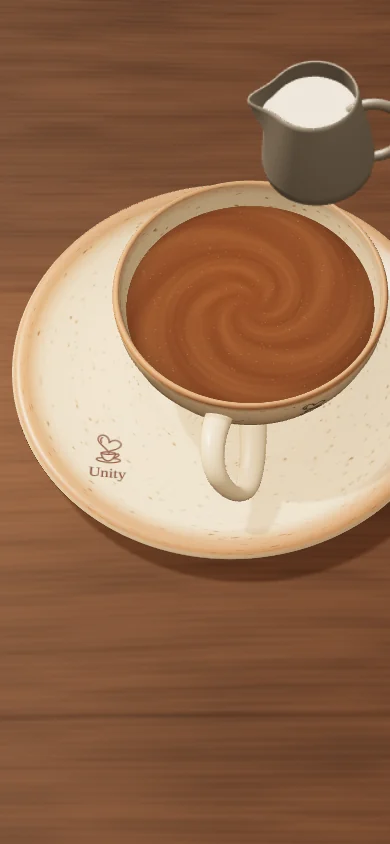
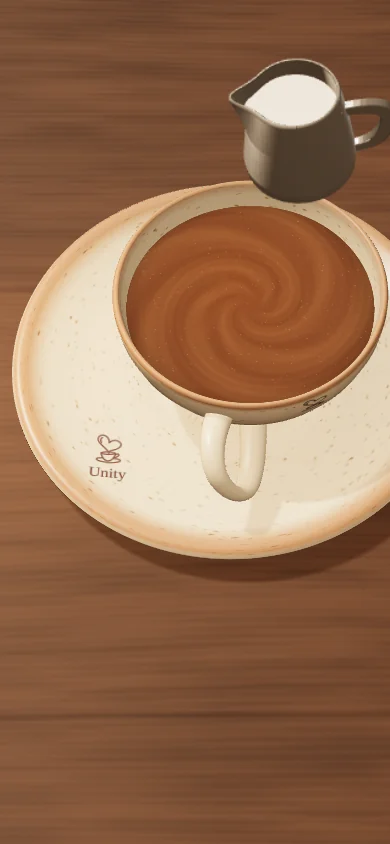
Shape a brushed steel pitcher and keep its handle in view

Changed region(s): [[0.5846, 0.0616, 1.0, 0.2464], [0.7692, 0.4621, 0.8308, 0.4929]]

diff --git a/public/latte-art/cup-scene.js b/public/latte-art/cup-scene.js
@@ -270,7 +270,7 @@ export function createCupScene(mainCanvas, fallbackCanvas, inkCanvas, stillCanva
   pourScene.add(stream);
   const streamStart = new THREE.Vector3();
   const streamEnd = new THREE.Vector3();
-  const idlePitcher = new THREE.Vector3(.73, 1.52, -1.49);
+  const idlePitcher = new THREE.Vector3(.54, 1.52, -1.52);
   let pourView = { position: { x: 0, y: 0 }, flow: 0, resting: 1, amount: 0 };
   const camera = new THREE.PerspectiveCamera(28, 1, .1, 80);
   const target = new THREE.Vector3();
@@ -594,7 +594,10 @@ export function createCupScene(mainCanvas, fallbackCanvas, inkCanvas, stillCanva
 function buildPitcher(scene) {
   const pivot = new THREE.Group();
   pivot.position.set(1.9, 1.43, -.5);
-  const steel = new THREE.MeshStandardMaterial({ color: '#bdb9b0', metalness: .58, roughness: .29 });
+  const steel = new THREE.MeshPhysicalMaterial({
+    color: '#c9c2b7', metalness: .84, roughness: .26,
+    anisotropy: .49, anisotropyRotation: Math.PI / 2, envMapIntensity: 1.46,
+  });
   const pitcher = lathe([
     [0, 0], [.51, 0], [.58, .07], [.60, .22], [.54, .72], [.47, 1.13],
     [.45, 1.18], [.43, 1.16], [.47, .65], [.52, .2], [0, .10],
@@ -603,9 +606,20 @@ function buildPitcher(scene) {
   shapePitcherSpout(pitcher.geometry);
   pivot.add(pitcher);
   const pitcherMilk = createPitcherLiquid();
-  const handle = new THREE.Mesh(new THREE.TorusGeometry(.35, .052, 10, 30), steel);
-  handle.position.set(.58, .55, 0);
-  handle.scale.y = 1.22;
+  const strap = new THREE.Shape();
+  strap.moveTo(.43, .91);
+  strap.quadraticCurveTo(.95, 1.05, .98, .79);
+  strap.quadraticCurveTo(1.01, .33, .67, .26);
+  strap.lineTo(.54, .23);
+  strap.lineTo(.53, .32);
+  strap.quadraticCurveTo(.86, .37, .87, .74);
+  strap.quadraticCurveTo(.87, .88, .45, .82);
+  strap.closePath();
+  const handleGeometry = new THREE.ExtrudeGeometry(strap, {
+    depth: .066, bevelEnabled: true, bevelThickness: .018, bevelSize: .012, bevelSegments: 2, curveSegments: 12,
+  });
+  handleGeometry.translate(0, 0, -.033);
+  const handle = new THREE.Mesh(handleGeometry, steel);
   pivot.add(handle);
   const spout = new THREE.Object3D();
   spout.position.set(PITCHER_LIP.x, PITCHER_LIP.y, PITCHER_LIP.z);

diff --git a/public/latte-art/fallback-cup.js b/public/latte-art/fallback-cup.js
@@ -40,7 +40,7 @@ function paintPitcher(ctx, x, y, scale, { position, flow, resting, amount }) {
   ctx.save();
   ctx.translate(x, y);
   ctx.scale(scale, scale);
-  const left = (position.x + .18) * (1 - resting) + .62 * resting;
+  const left = (position.x + .18) * (1 - resting) + .48 * resting;
   const top = (.88 * position.y - .65) * (1 - resting) - 1.17 * resting;
   const used = amount / MILK_CAPACITY;
   const angle = .10 * resting + (.25 + .40 * used + .27 * flow) * (1 - resting);
